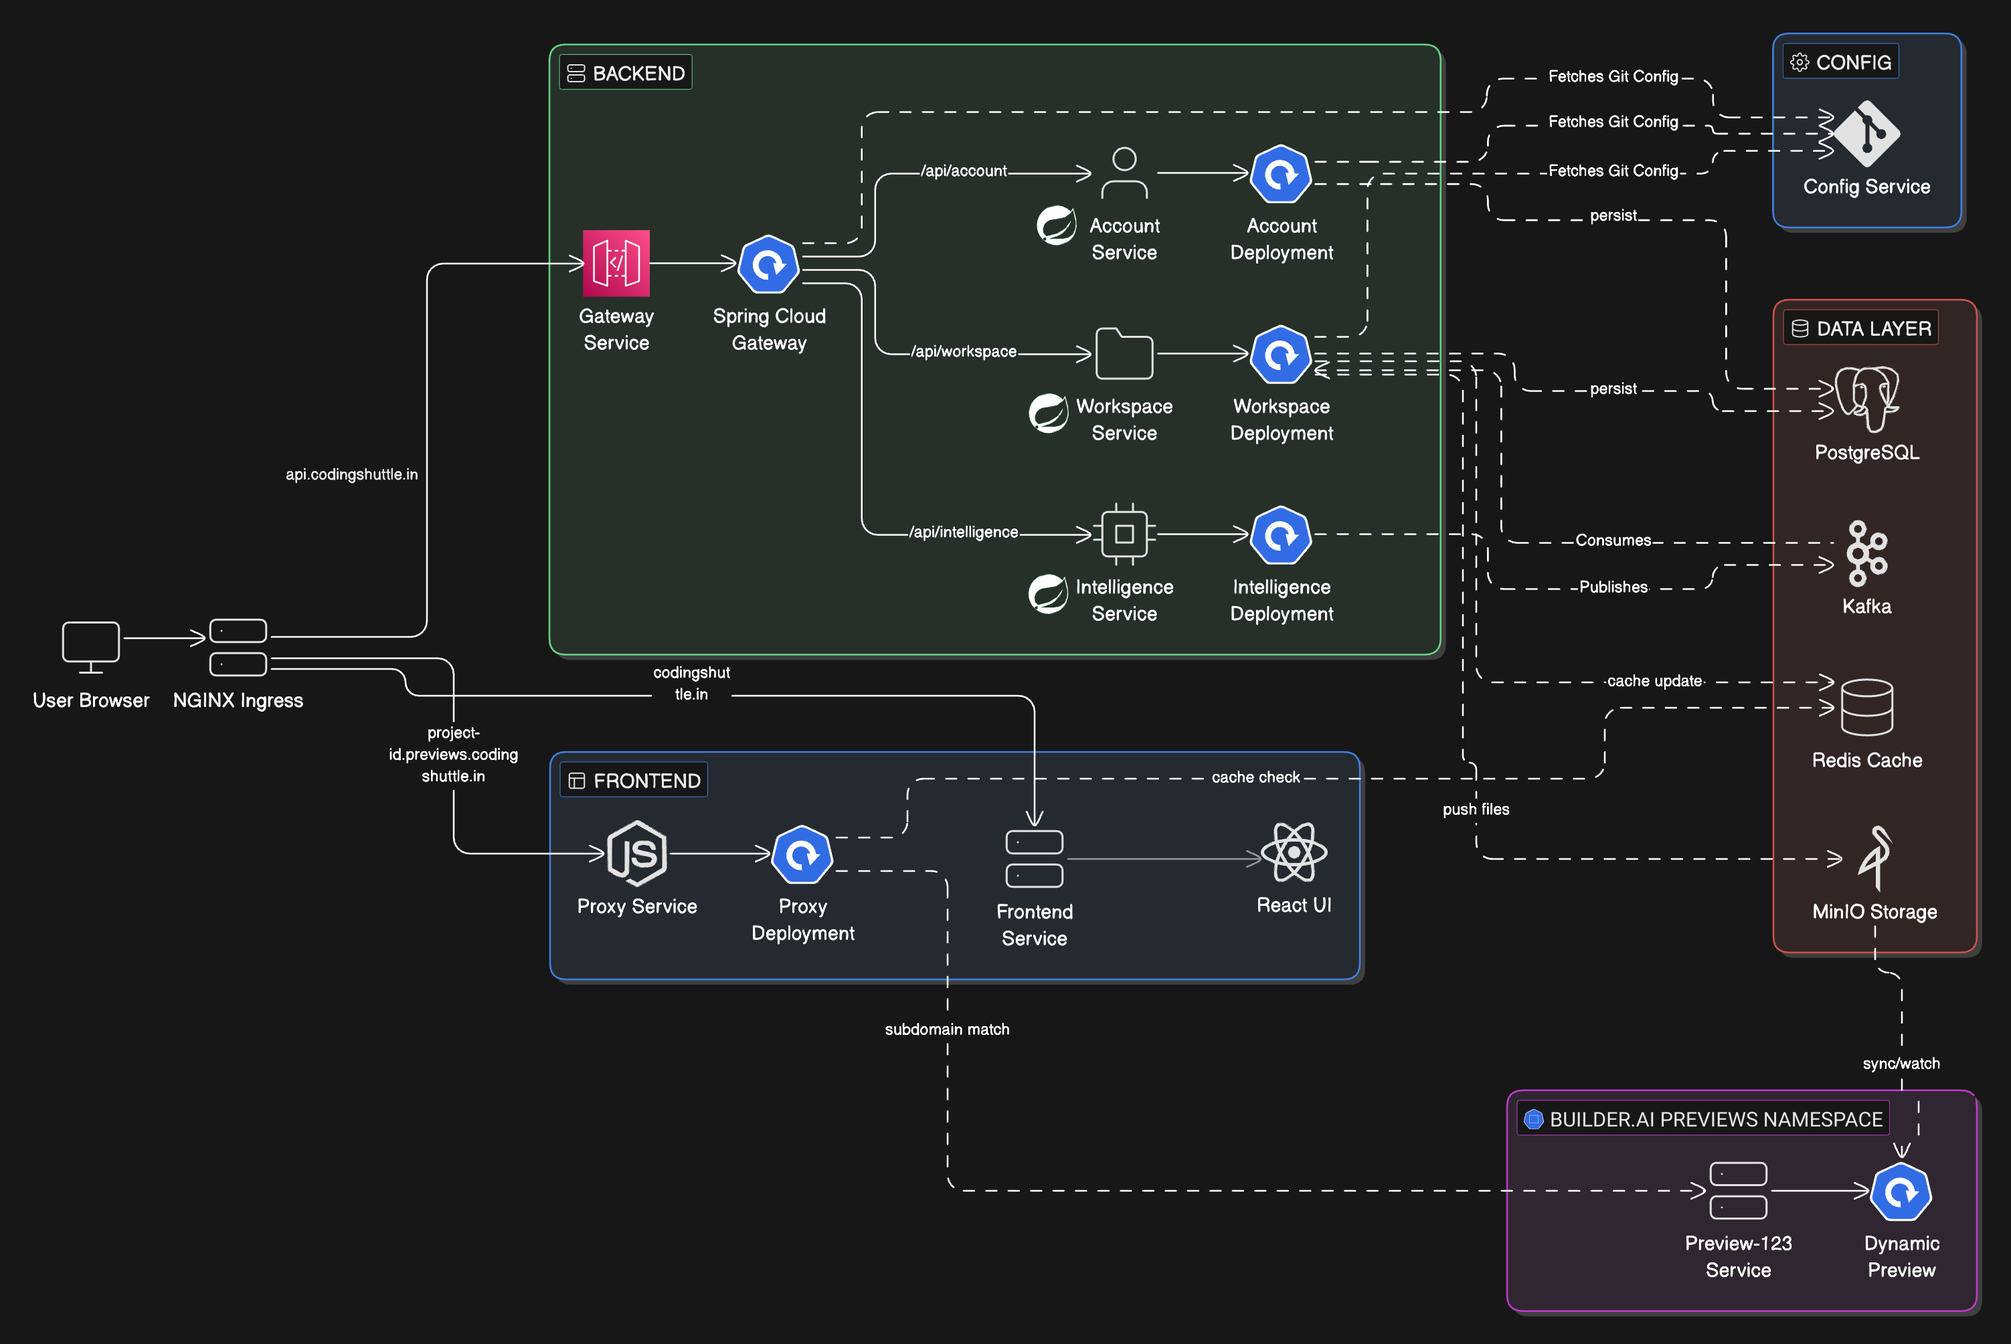
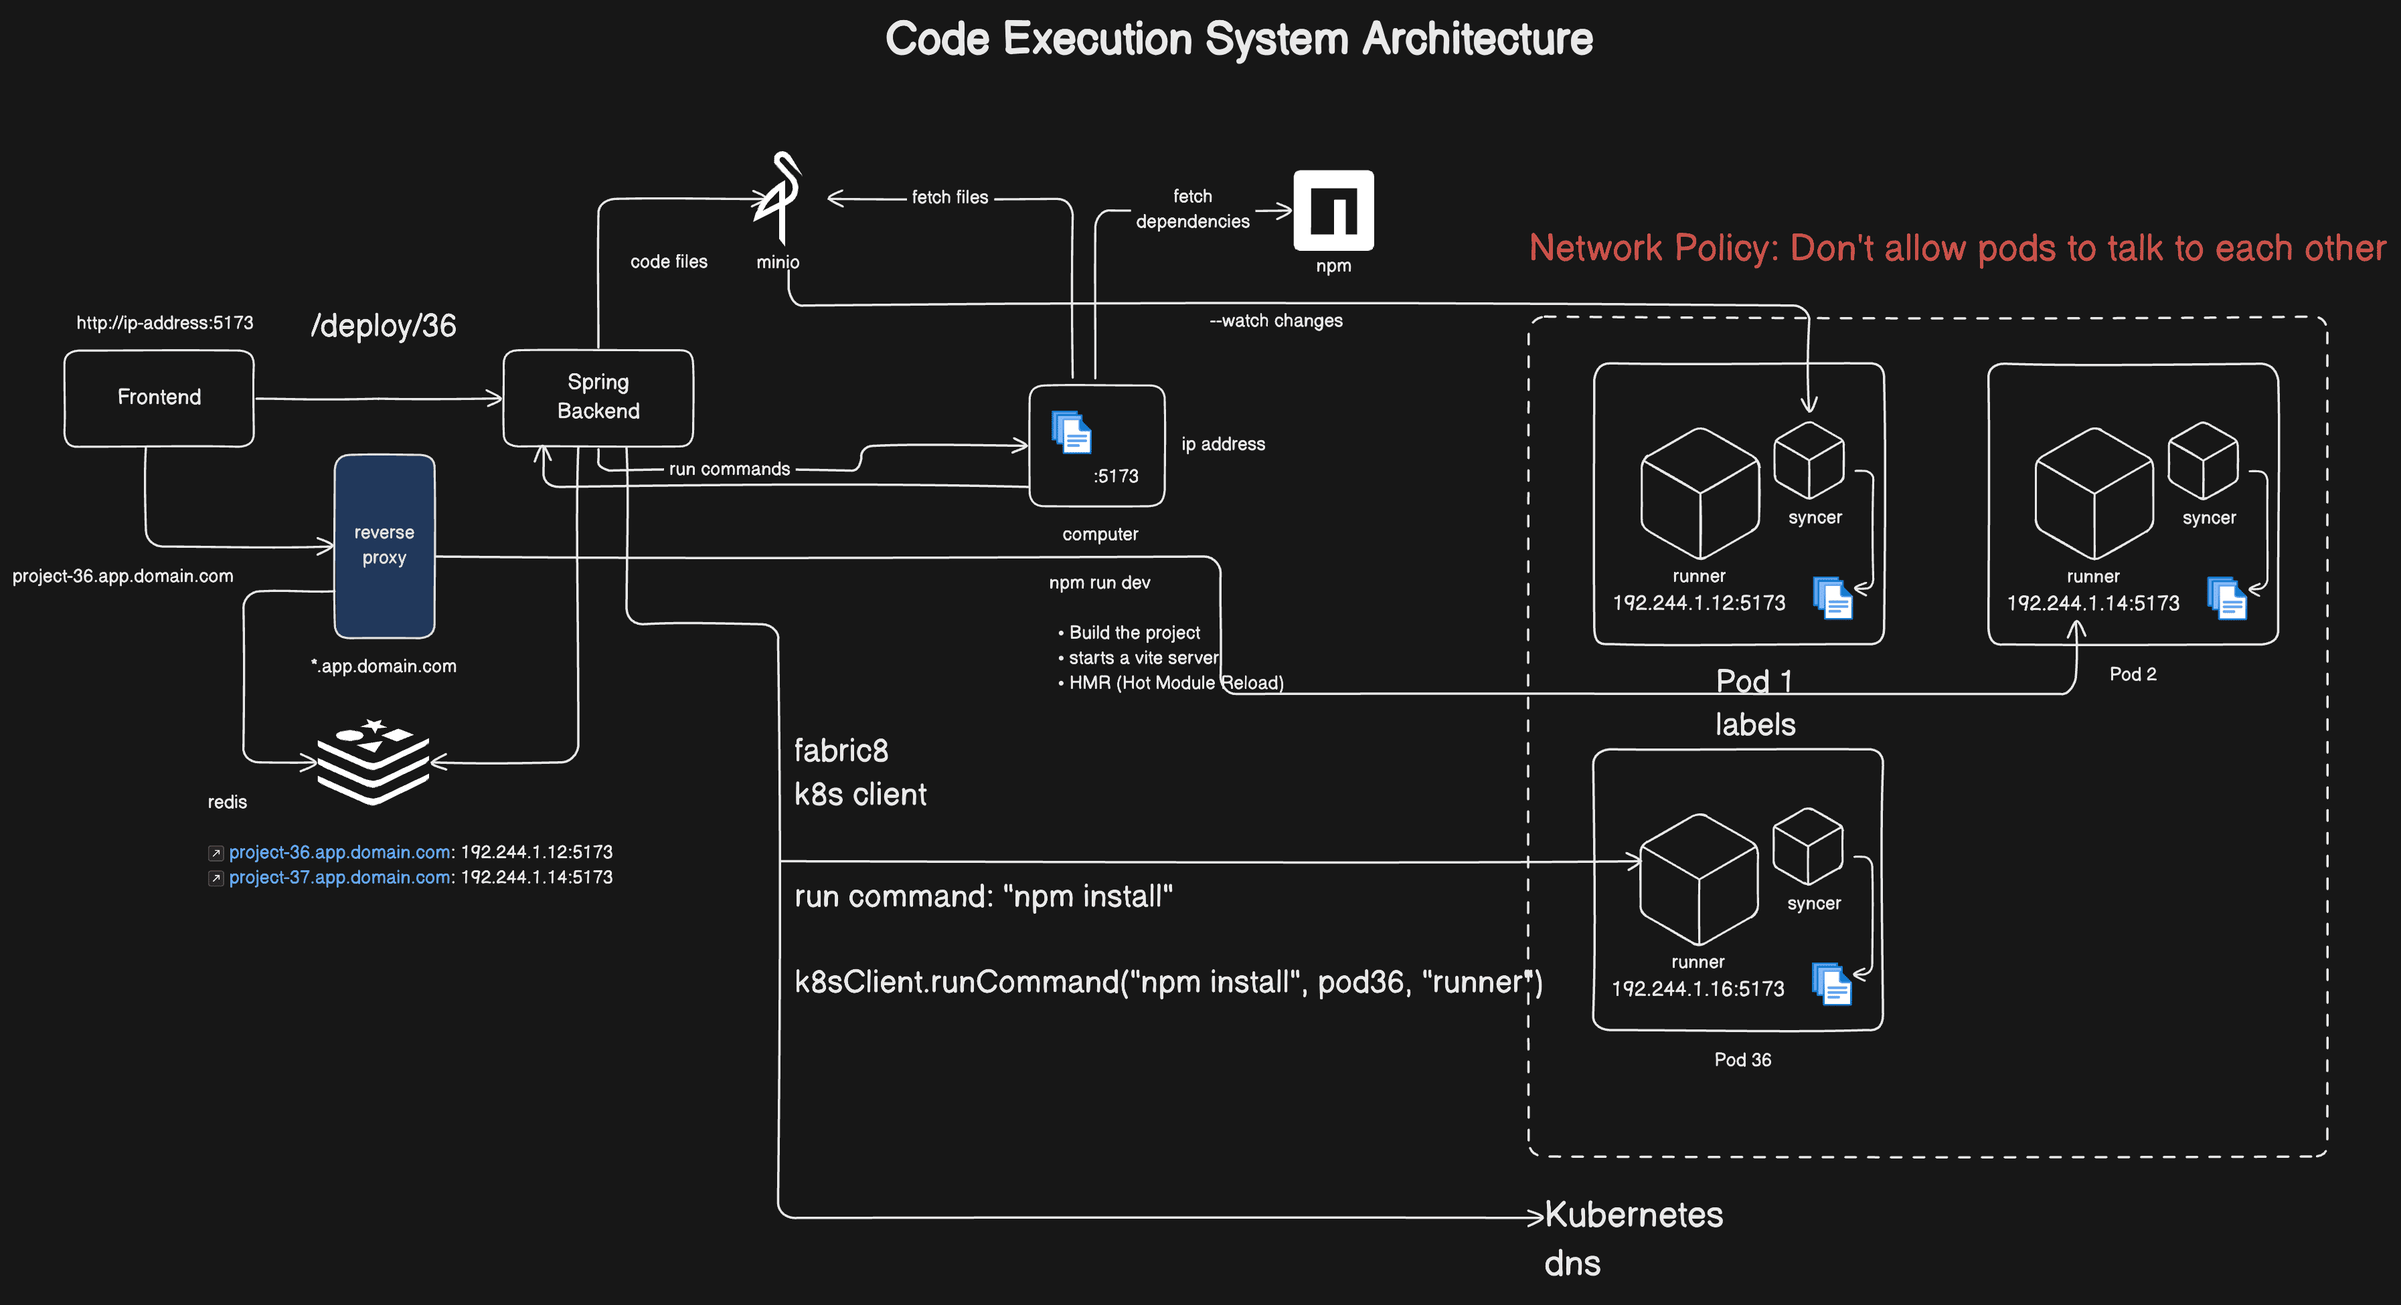
updated readme

diff --git a/README.md b/README.md
@@ -1,235 +1,75 @@
-# Builder.ai — Distributed Lovable style AI App Builder
+# Builder.ai
 
-Builder.ai is a distributed, microservices-based platform that lets users describe an
-application in natural language and have an LLM generate, edit, and live-preview a full
-working codebase — similar to "Lovable". The backend is a Spring Cloud microservices
-system running on Google Kubernetes Engine (GKE); the frontend is a Vite + React + Tailwind
-+ shadcn/ui single-page app with a chat driven code editor and live preview.
+Build and edit React apps with natural-language prompts. Builder.ai combines streaming AI chat, a browser code editor, and live previews backed by Kubernetes.
 
----
+**Stack:** React, TypeScript, Tailwind CSS · Java 21, Spring Boot, Spring Cloud, Spring AI · PostgreSQL, Kafka, MinIO, Redis · Kubernetes, Fabric8.
 
 ## Architecture
 
-### Logical / Microservices View
+### 1. Microservices
 
-Each Spring Boot service authenticates requests locally via a shared `JwtAuthFilter`
-(no dependency on the gateway for auth), and services talk to one another through
-**Feign** clients that automatically forward the caller's JWT.
+![Microservices architecture showing the API gateway, domain services, shared infrastructure, and Kafka file events](docs/images/architecture-microservices.png)
 
-![Microservices architecture](docs/images/architecture-microservices.png)
+The **API Gateway** validates JWTs and routes requests to three domain services:
 
-### Kubernetes Deployment Topology
+| Service | Responsibility |
+| --- | --- |
+| [Account](backend/account-service/) | Authentication, users, subscription plans, and Stripe billing. |
+| [Workspace](backend/workspace-service/) | Projects, member permissions, file storage, and preview deployment. |
+| [Intelligence](backend/intelligence-service/) | AI generation, file context, chat history, and token usage. |
 
-Traffic enters through an **NGINX Ingress**, which routes by host: `api.builder.ai` goes to
-the Spring Cloud Gateway, `builder.ai` to the frontend, and `*.previews.builder.ai` to a
-Node.js proxy that resolves each subdomain to a live project preview. User previews run in
-an isolated `builder-ai-previews` namespace, separate from the core application namespace
-`builder-ai-core`.
+**Config Service** supplies Git-backed configuration; **Discovery Service** provides Eureka service discovery. Domain services also validate JWTs locally through [common-lib](backend/common-lib/), which shares DTOs, event contracts, and a Feign interceptor that forwards the caller's token. OpenFeign handles synchronous service calls; Kafka carries asynchronous file-storage requests and replies.
 
-![Kubernetes deployment architecture](docs/images/architecture-kubernetes.png)
+### 2. AI generation and storage
 
----
+![AI generation flow from a user prompt through file context and tool calls to streamed output, PostgreSQL, and MinIO](docs/images/ai_design_architecture.png)
 
-## Services
+1. **Gather context:** Intelligence combines the user prompt, system instructions, and the project's file tree. The `read_files` tool retrieves selected file contents through Workspace.
+2. **Stream the response:** Spring AI streams model output to the React UI over Server-Sent Events (SSE), while the backend buffers the complete response and records token usage.
+3. **Parse and persist:** The parser extracts `<message>`, `<file>`, and `<tool>` blocks into chat events. Kafka sends file edits to Workspace, which writes content to **MinIO** and file metadata to **PostgreSQL**.
+4. **Confirm writes:** Storage replies mark file-edit events `CONFIRMED` or `FAILED`. Processed saga IDs let Workspace recognize duplicate requests and avoid repeating successful writes.
 
-| Service | Port | Primary Responsibility | Storage | Key Integrations | Cross-Service Calls (Feign) |
-|---|---|---|---|---|---|
-| **Account Service** | 9010 | User identity, authentication, and Stripe billing | PostgreSQL (Users, Plans, Subscriptions) | Stripe API | None |
-| **Workspace Service** | 9020 | Project management, file tree, Kubernetes deployments | PostgreSQL (Projects, Members), MinIO (Files) | Kubernetes API, Redis | AccountService (check limits, users) |
-| **Intelligence Service** | 9030 | AI chat, context gathering, code generation | PostgreSQL (Chat Sessions, Messages, Events) | OpenAI (Spring AI) | WorkspaceService (read files), AccountService (check AI limits) |
-| **API Gateway** | 8080 | Spring Cloud Gateway — single entrypoint, JWT validation, routing | — | — | All downstream services |
-| **Discovery Service** | 8761 | Netflix Eureka service registry & discovery | — | — | — |
-| **Config Service** | 8888 | Centralized configuration (Spring Cloud Config, Git-backed) | Git repo | — | — |
-| **Common Lib** | — | Shared security filter, Feign interceptor, and DTOs | — | — | — |
+### 3. Kubernetes previews
 
-### Account Service
-- **Dependencies:** `spring-boot-starter-web`, `spring-data-jpa`, `postgresql`, `stripe-java`, `mapstruct`, `spring-cloud-starter-netflix-eureka-client`
-- **Key entities:** `User`, `Plan` (Free, Pro), `Subscription`
-- **Security:** `AccountSecurityConfig` exposes `/auth/**` and `/webhooks/stripe` publicly; secures everything else.
-- **Internal API:** `InternalAccountController` exposes `/internal/v1/...` for other microservices to fetch user DTOs and verify billing plans.
+![Code execution architecture showing runner and syncer containers, MinIO synchronization, Redis routing, and the reverse proxy](docs/images/architecture-kubernetes.png)
 
-### Workspace Service
-- **Dependencies:** `spring-boot-starter-web`, `spring-data-jpa`, `minio`, `kubernetes-client` (Fabric8), `spring-data-redis`, `spring-cloud-starter-openfeign`
-- **Key entities:** `Project`, `ProjectMember`, `ProjectFile`, `Preview` (K8s pod mapping)
-- **Cloud config:** `StorageConfig` (MinIO), `KubernetesConfig`, `RedisConfig`
-- **Security logic:** `SecurityExpressions` — custom `@PreAuthorize("@security.canEditProject(#id)")` ownership checks via `ProjectMemberRepository`.
-- **Feign clients:** `AccountClient` — verifies the user's `maxProjects` limit during project creation.
+- **Execute:** Workspace uses Fabric8 to claim an idle pod from a runner pool. Each pod has a Node.js **runner** and a MinIO **syncer** sharing a workspace volume. The runner installs dependencies and starts Vite on port `5173`.
+- **Keep previews live:** The syncer watches project files in MinIO and mirrors changes into the pod; Vite hot module replacement updates the preview.
+- **Route and isolate:** Redis maps each project hostname to its pod address. The Node.js reverse proxy forwards HTTP and WebSocket traffic. Preview pods run in `builder-ai-previews`, separate from `builder-ai-core`; network policies restrict incoming traffic and communication between preview pods.
 
-### Intelligence Service
-- **Dependencies:** `spring-ai-starter-model-openai`, `spring-data-jpa`, `spring-cloud-starter-openfeign`
-- **Key entities:** `ChatSession`, `ChatMessage`, `ChatEvent`, `UsageLog` (tracks LLM thoughts, file edits, tool uses)
-- **AI components:** `AiGenerationServiceImpl` (prompt execution), `LlmResponseParser` (regex to extract `<file>` and `<tool>` tags)
-- **Advisors & tools:** `FileTreeContextAdvisor` (injects the current file tree into the prompt), `CodeGenerationTools` (lets the LLM read specific files)
-- **Feign clients:** `WorkspaceClient` (fetch file trees & content for context), `AccountClient` (verify AI daily token limits)
+The [Kubernetes manifests](backend/k8s/) include NGINX ingress routes for the frontend, API gateway, and wildcard preview domains.
 
-### Common Lib
-| Component | What it does | Why it's needed |
-|---|---|---|
-| `JwtAuthFilter` | Extracts the Bearer token and populates the `SecurityContext`. | Every service authenticates requests locally, independent of the Gateway. |
-| `FeignClientInterceptor` | Grabs the user's JWT from context and attaches it to outbound Feign requests. | Lets the Intelligence service call the Workspace service seamlessly as the logged-in user. |
-| Shared DTOs | `UserDto`, `PlanDto`, `FileTreeDto`, etc. | Prevents JPA `@Entity` classes from leaking across microservice boundaries. |
+### 4. Data model
 
----
+![Conceptual entity relationship diagram for users, plans, subscriptions, projects, memberships, files, previews, chats, and usage](docs/images/ER_Diagram.png)
 
-## Tech Stack
+- **Accounts and billing:** Users subscribe to plans that define project, preview, and AI usage allowances.
+- **Projects and collaboration:** Memberships associate users with projects and permissions. File records hold paths and MinIO object keys; the diagram also models project previews.
+- **Conversations and usage:** Chat sessions belong to a project/user pair and contain messages. The implementation adds ordered chat events and daily token-usage records.
 
-**Backend**
-- Java + Spring Boot, Spring Cloud (Gateway, Config, Netflix Eureka, OpenFeign)
-- Spring AI (OpenAI models) for code generation
-- PostgreSQL (with pgvector) · Redis · Kafka · MinIO (object storage)
-- Fabric8 Kubernetes client for dynamic preview deployments
-- Stripe for billing
-- Maven (with Jib for container image builds)
+Each domain service has its own PostgreSQL database; links across services are logical references. The diagram is conceptual: ownership is implemented through `ProjectMember` roles (`OWNER`, `EDITOR`, `VIEWER`), and active previews are tracked through Kubernetes pod labels and Redis routes.
 
-**Frontend** (`frontend/`)
-- Vite + React + TypeScript
-- Tailwind CSS + shadcn/ui
-- Chat-driven UI with streaming responses, file tree, Monaco-style code editor, and live preview panel
-- Vitest for testing
+## Development setup
 
-**Infrastructure**
-- Google Kubernetes Engine (GKE)
-- NGINX Ingress Controller
-- Node.js proxy for frontend serving and preview routing
+Requires **Java 21**, Node.js/npm, PostgreSQL, Kafka, Redis, and MinIO. Live previews also require Kubernetes and the runner pool.
 
----
+Backend settings come from a separate configuration repository. Set `SPRING_CLOUD_CONFIG_SERVER_GIT_URI` for Config Service and provide the service settings and credentials for your environment. Clients use `CONFIG_SERVER_URL`, defaulting to `http://localhost:8888`. Project creation requires a `projects` bucket and the starter template under `starter-projects/react-vite-tailwind-daisyui-starter/` in MinIO.
 
-## Repository Layout
+Install the shared backend library first, from the repository root:
 
-```
-.
-├── Architecture.pdf                # Source architecture document
-├── docs/images/                    # Architecture diagrams used in this README
-├── backend/
-│   ├── api-gateway/                # Spring Cloud Gateway (entrypoint, JWT, routing)
-│   ├── config-service/             # Spring Cloud Config (Git-backed)
-│   ├── discovery-service/          # Netflix Eureka registry
-│   ├── account-service/            # Auth, users, Stripe billing
-│   ├── workspace-service/          # Projects, files, K8s deployments
-│   ├── intelligence-service/       # AI chat & code generation
-│   ├── common-lib/                 # Shared security, Feign interceptor, DTOs
-│   └── k8s/                        # Kubernetes manifests
-│       ├── infra/                  # Namespaces, ingress, network policies, runner pool
-│       ├── stateful/               # PostgreSQL/pgvector, Kafka, Redis, MinIO
-│       ├── services/               # Service Deployments & Services
-│       └── proxy/                  # Node.js frontend/preview proxy
-└── frontend/                       # Vite + React + Tailwind + shadcn/ui SPA
+```bash
+cd backend/common-lib
+./mvnw install
 ```
 
----
+Run `./mvnw spring-boot:run` in separate terminals from each service directory: **config-service → discovery-service → account-service, workspace-service, intelligence-service → api-gateway**.
 
-## Getting Started
+Start the frontend from the repository root:
 
-### Prerequisites
-- JDK 17+ and Maven
-- Node.js 18+ and npm
-- Docker
-- A running PostgreSQL, Redis, Kafka, and MinIO (or use the manifests in `backend/k8s/stateful/`)
-- `gcloud` and `kubectl` (for cluster deployment)
-
-### Run the Frontend
 ```bash
 cd frontend
-npm install
+npm ci
 npm run dev
 ```
 
-### Run a Backend Service
-Each service is a standalone Spring Boot app. Start them in dependency order —
-**Config Service → Discovery Service → API Gateway → domain services**:
-```bash
-cd backend/config-service && ./mvnw spring-boot:run
-# then, in separate terminals:
-cd backend/discovery-service && ./mvnw spring-boot:run
-cd backend/api-gateway && ./mvnw spring-boot:run
-cd backend/account-service && ./mvnw spring-boot:run
-cd backend/workspace-service && ./mvnw spring-boot:run
-cd backend/intelligence-service && ./mvnw spring-boot:run
-```
-Services read their configuration from the Config Service (`CONFIG_SERVER_URL`,
-default `http://localhost:8888`) and register with Eureka (`http://localhost:8761`).
-
----
-
-## Deploying to Kubernetes (GKE)
-
-The steps below mirror the deployment runbook in `Architecture.pdf`.
-
-**1. Connect to the GKE cluster** — bridges your local `kubectl` to the cloud cluster:
-```bash
-gcloud container clusters get-credentials builder-ai-me-cluster \
-  --region asia-south1 --project <your-project-id>
-```
-
-**2. Create the namespaces and shared config** — `builder-ai-core` for the app,
-`builder-ai-previews` to isolate dynamic user previews. The same manifest also creates the
-`builder-ai-shared-config` ConfigMap (preview domain, preview namespace, proxy port):
-```bash
-kubectl apply -f backend/k8s/infra/namespaces.yaml
-```
-
-**3. Load the secrets** — database passwords, API keys, and other credentials from your `.env`:
-```bash
-kubectl create secret generic app-secrets --from-env-file=.env -n builder-ai-core
-```
-
-**4. Deploy stateful infrastructure first** — PostgreSQL (pgvector), Redis, Kafka, MinIO must be up before the apps:
-```bash
-kubectl apply -f backend/k8s/stateful/
-```
-
-**5. Deploy the microservices** — Deployments (Jib-built images) and Services (internal DNS):
-```bash
-kubectl apply -f backend/k8s/services/
-```
-
-**6. Deploy the preview tier** — the Node.js proxy that the ingress hands `*.previews.builder.ai`
-to, plus the pool of runner pods that back user previews:
-```bash
-kubectl apply -f backend/k8s/proxy/proxy-deployment.yaml
-kubectl apply -f backend/k8s/infra/runner-pool.yaml
-```
-
-**7. Apply the network policies** — restricts the core namespace to internal traffic plus the
-ingress, and sandboxes preview pods:
-```bash
-kubectl apply -f backend/k8s/infra/core-network-policies.yaml
-kubectl apply -f backend/k8s/infra/preview-network-policies.yaml
-```
-
-**8. Install the NGINX Ingress Controller** — provisions a Google Cloud load balancer:
-```bash
-kubectl apply -f https://raw.githubusercontent.com/kubernetes/ingress-nginx/controller-v1.8.2/deploy/static/provider/cloud/deploy.yaml
-```
-Wait for Google to assign a public IP (note the `EXTERNAL-IP` for DNS):
-```bash
-kubectl get svc ingress-nginx-controller -n ingress-nginx -w
-```
-
-**9. Apply the ingress routing rules** — host-based routing for `api.builder.ai`,
-`builder.ai`, and `*.previews.builder.ai`:
-```bash
-kubectl apply -f backend/k8s/infra/ingress.yaml
-```
-
-> Every manifest declares its own `namespace:`, so no `-n` flag is needed on `kubectl apply`
-> — point your DNS at the ingress IP and the hosts above resolve to the right services.
-
----
-
-## How It Works (Request Flow)
-
-1. The user logs in via **Account Service** (`/auth/**`) and receives a JWT.
-2. The browser hits the **NGINX Ingress** → `api.builder.ai` is routed to the **API Gateway**.
-3. The Gateway validates the JWT and forwards the request to the target service.
-4. To build an app, the user chats via the **Intelligence Service**, which:
-   - injects the project's current file tree into the prompt (`FileTreeContextAdvisor`),
-   - calls **Workspace Service** over Feign to read file content for context,
-   - checks AI usage limits with **Account Service**,
-   - generates code, parsing `<file>`/`<tool>` tags from the LLM response.
-5. **Workspace Service** persists files to **MinIO**, caches state in **Redis**, publishes
-   `file-updates` events to **Kafka**, and spins up isolated **preview pods** in the
-   `builder-ai-previews` namespace via the Kubernetes API.
-6. The user sees the running app in the **live preview panel**.
-
----
+The UI runs at `http://localhost:5173`; its API base URL is configured in [frontend/src/lib/api.ts](frontend/src/lib/api.ts) and currently points to `http://localhost:8080`.
